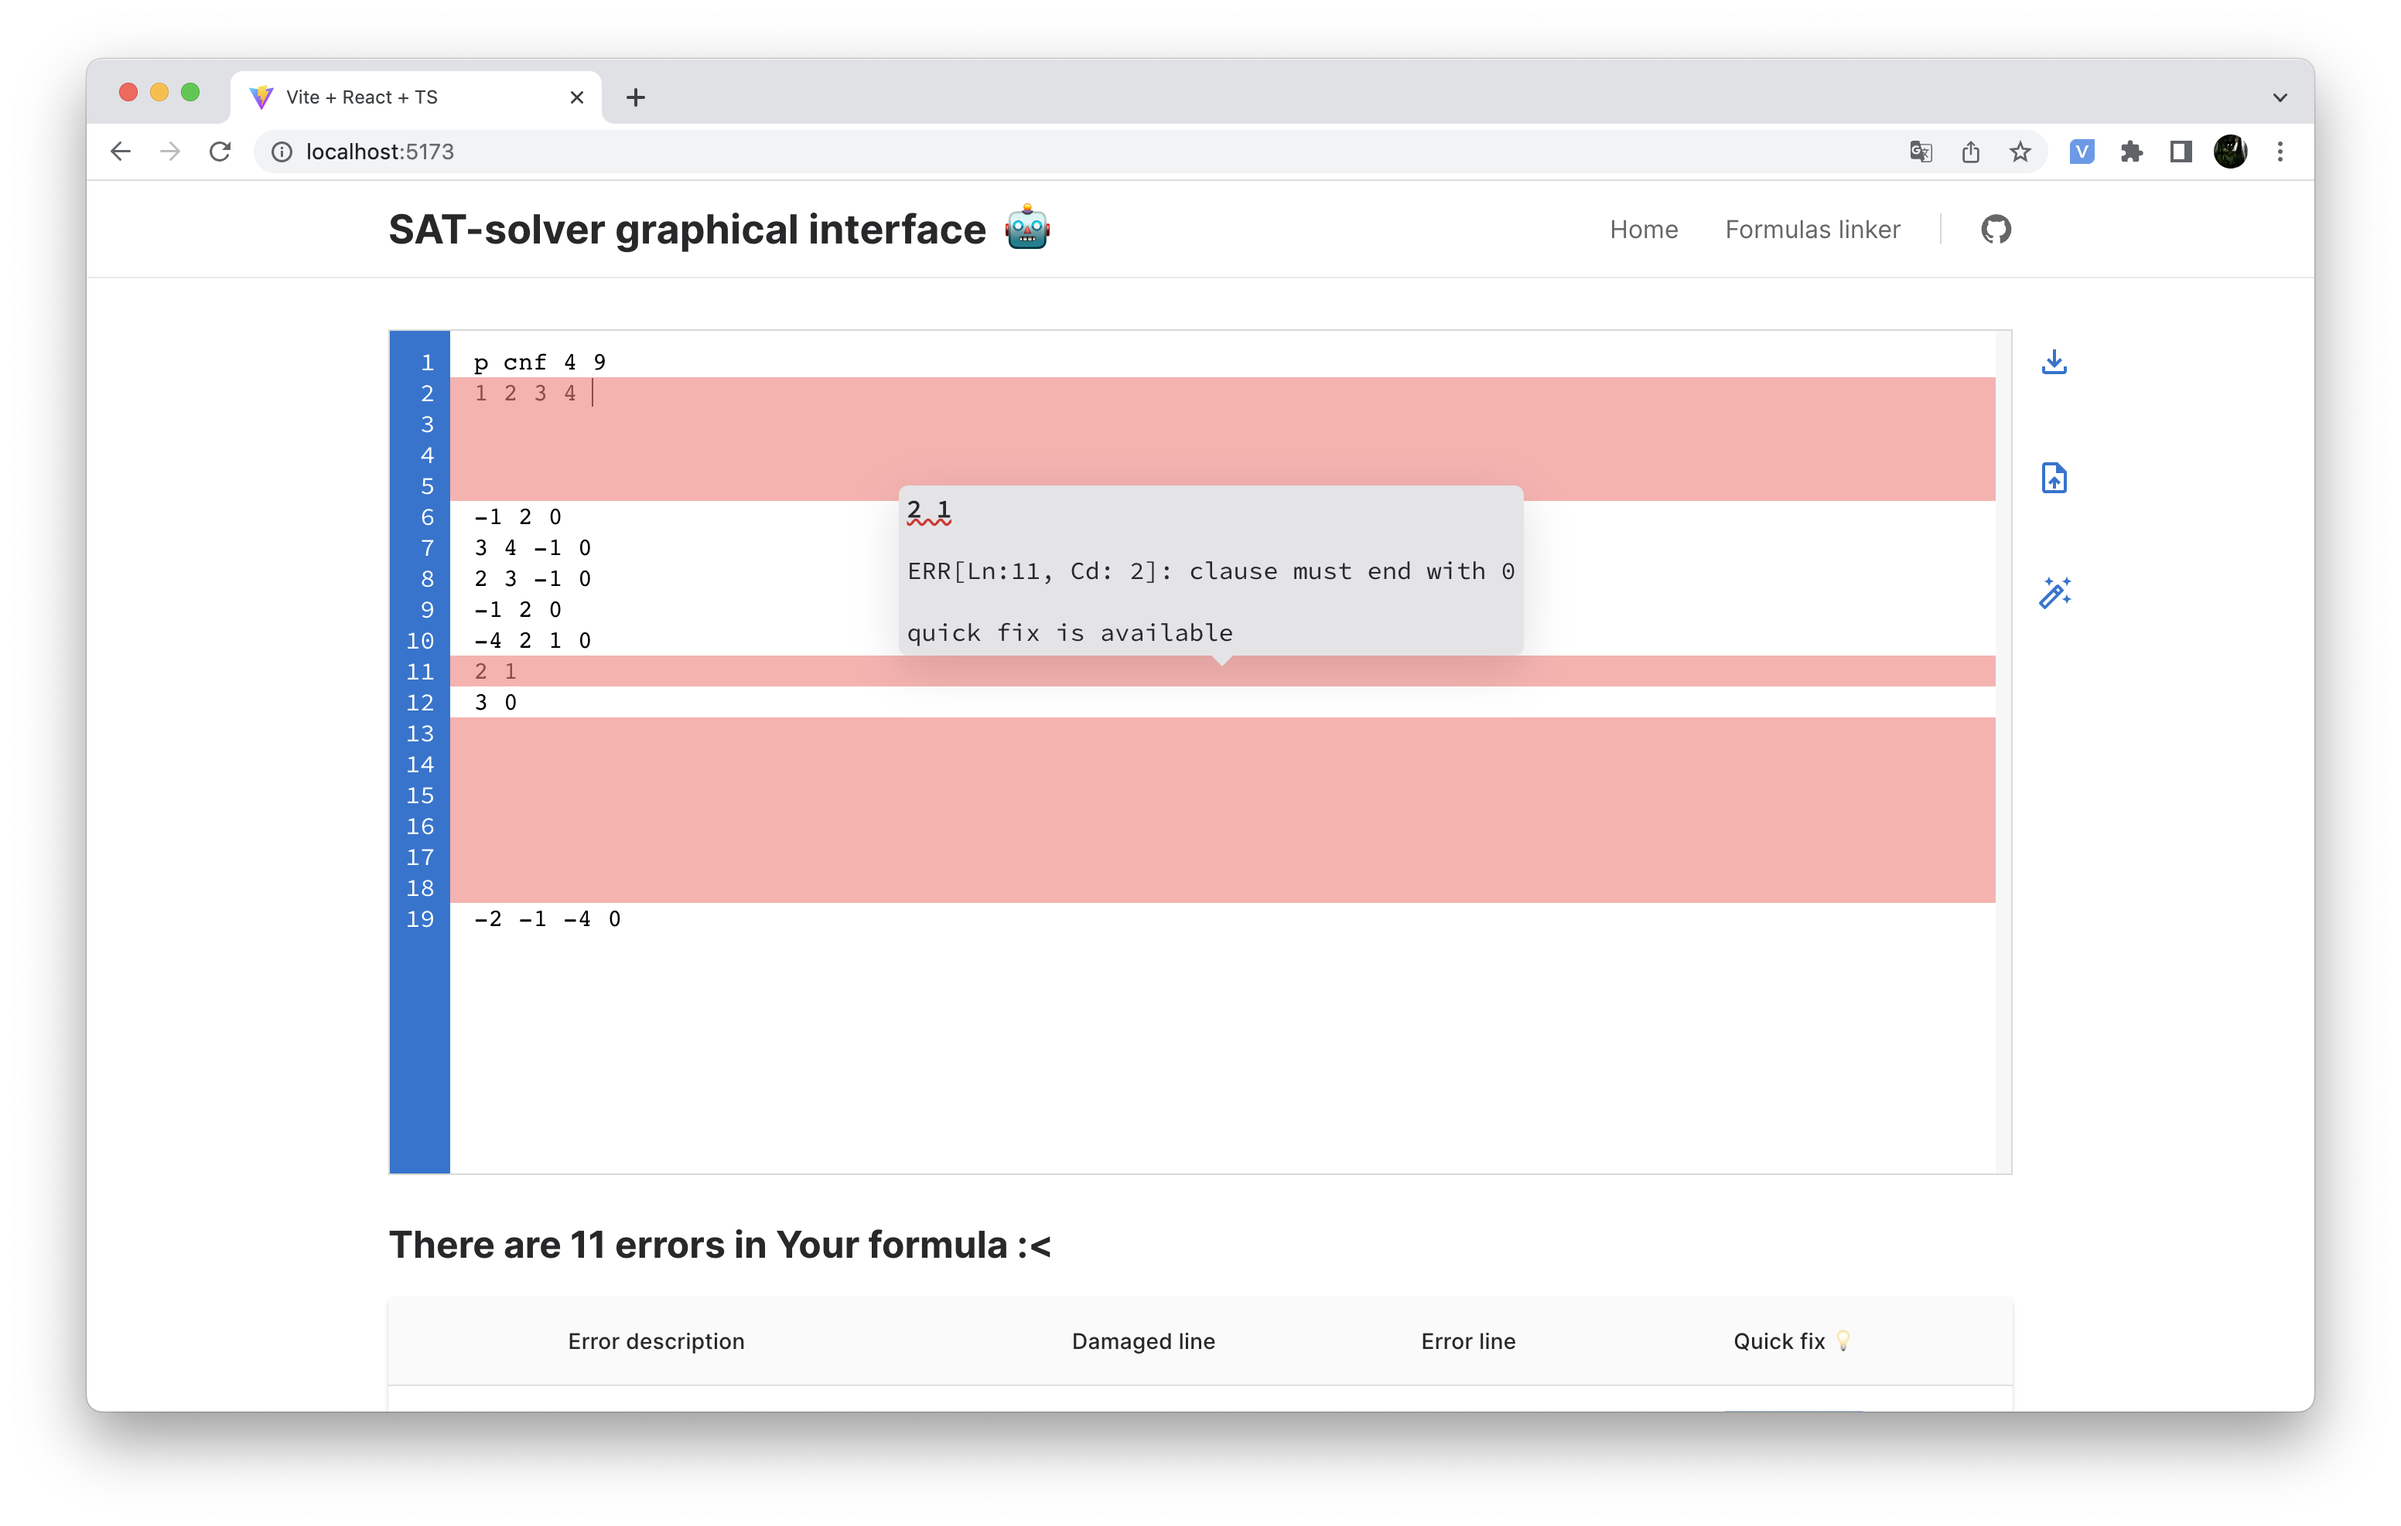
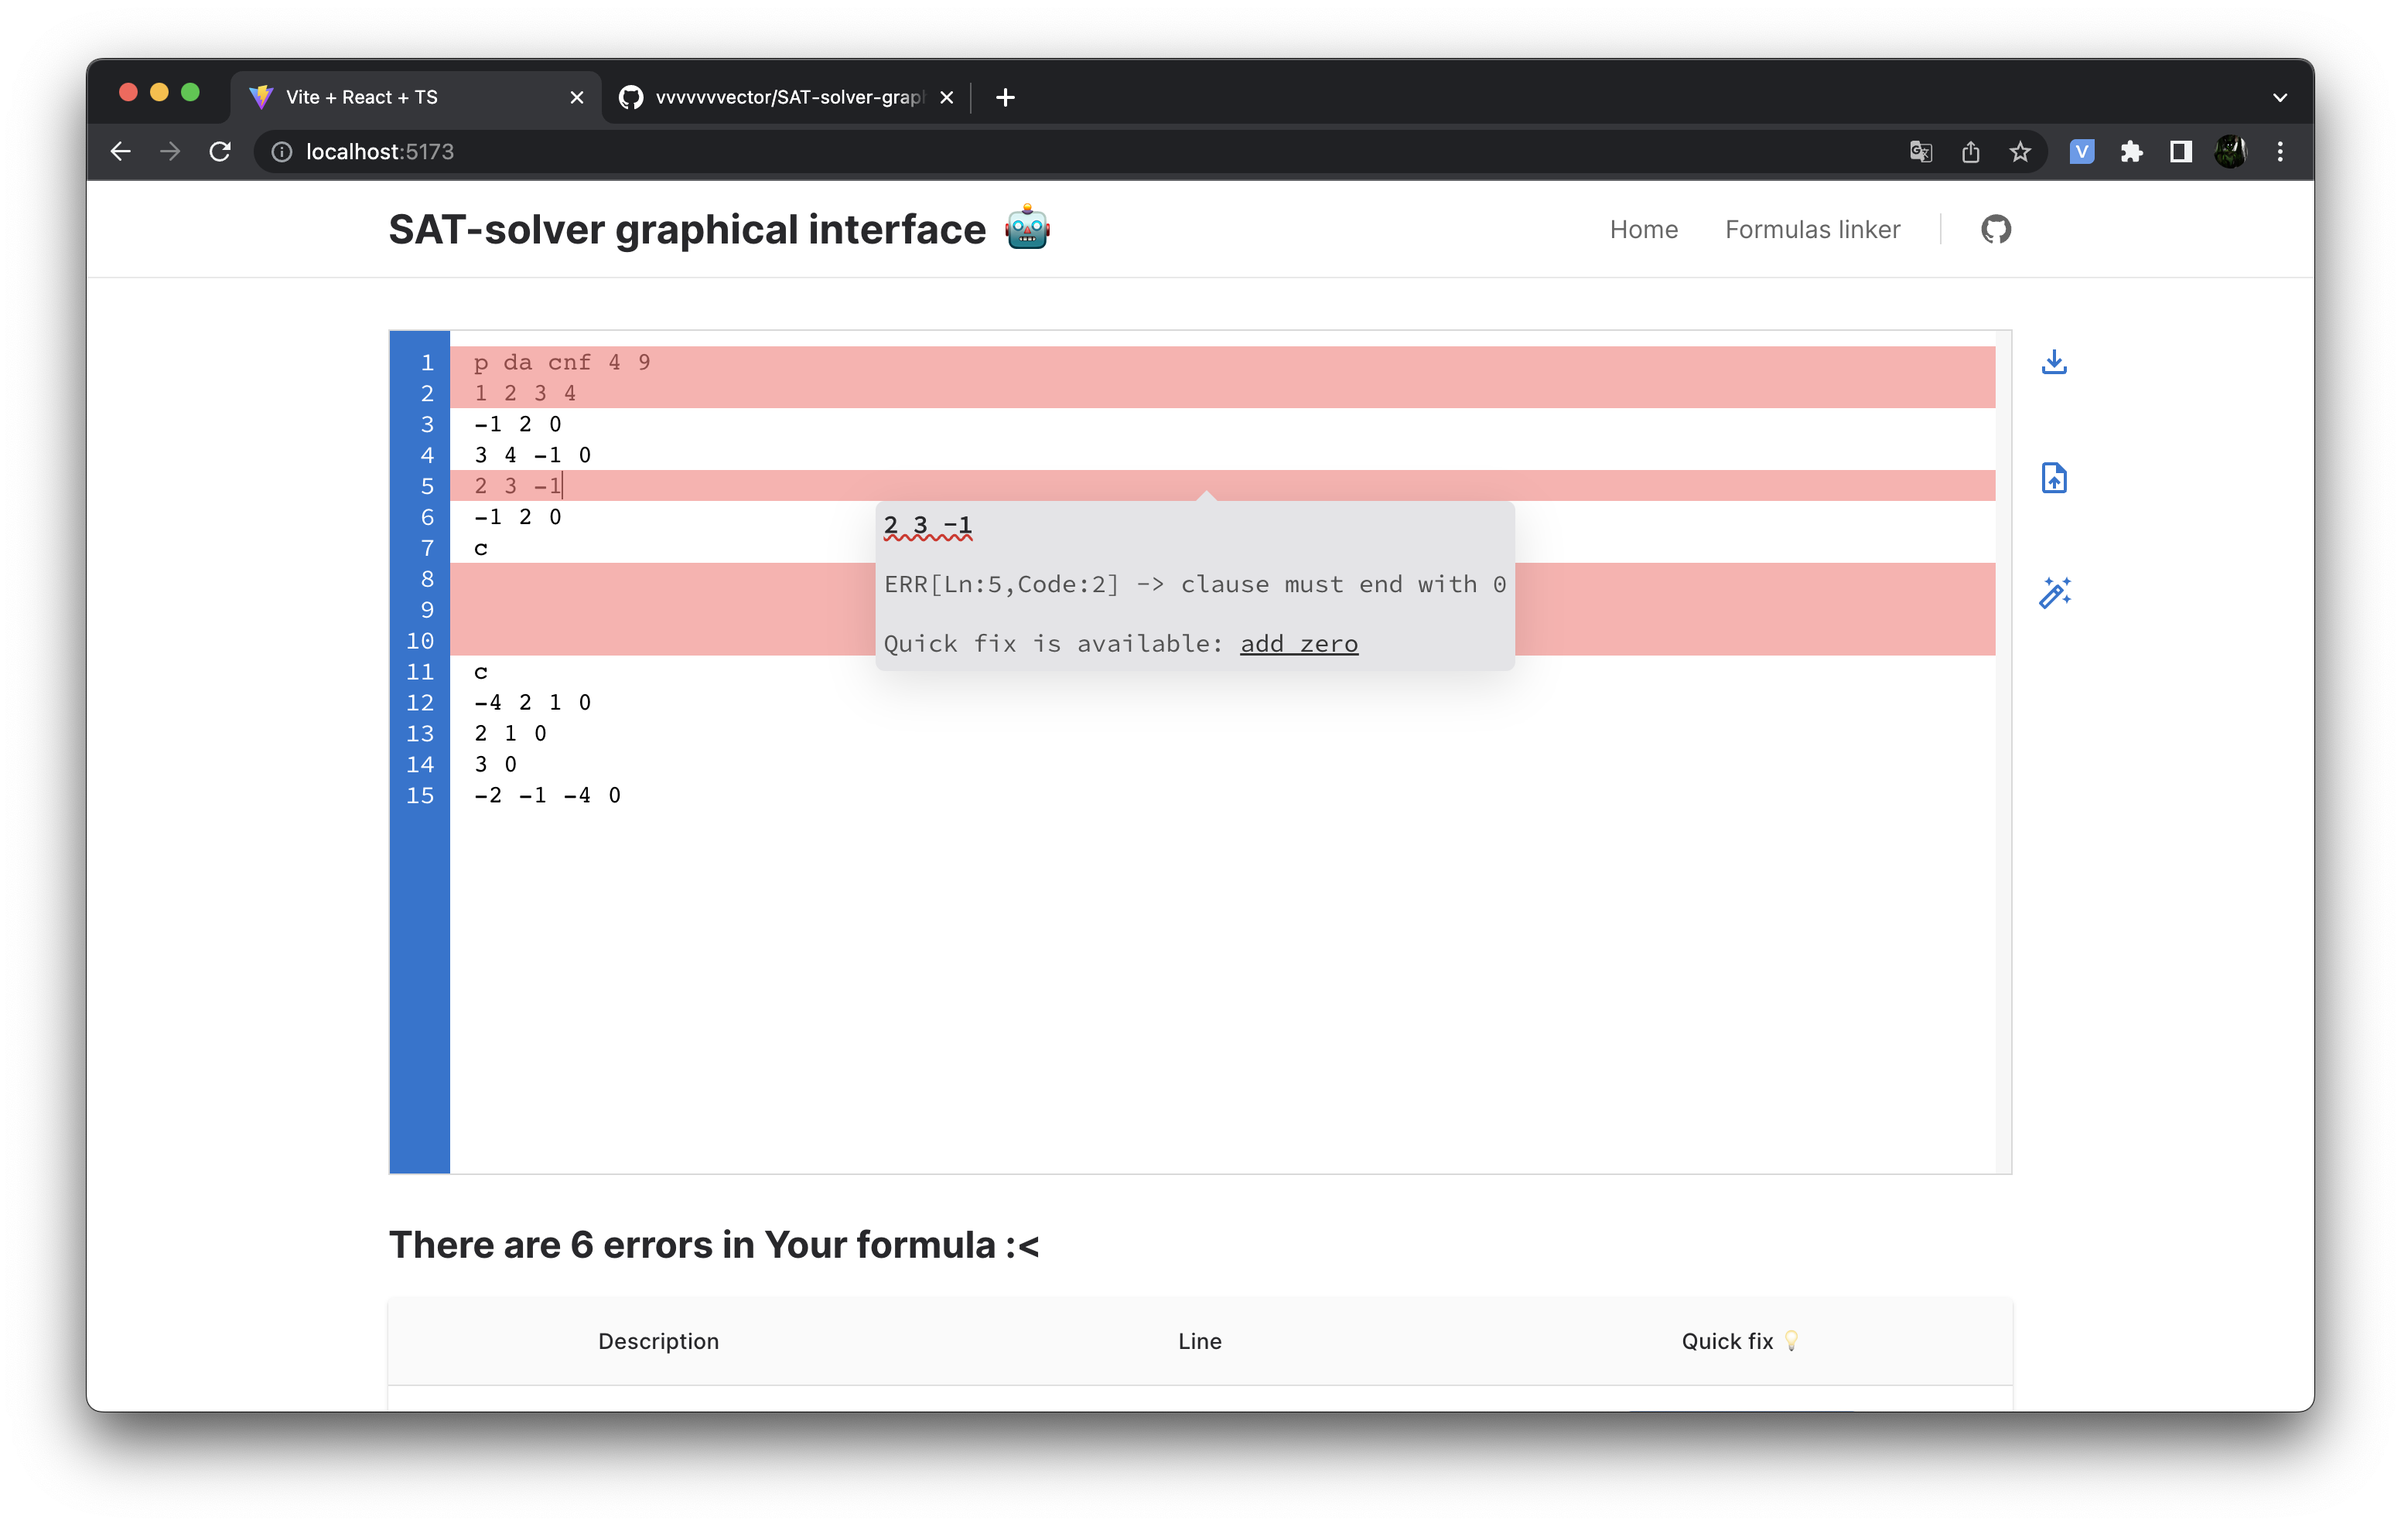
inline fixes are are working now

diff --git a/src/components/Editor/Errors/Error/ErrorInfo/ErrorInfo.tsx b/src/components/Editor/Errors/Error/ErrorInfo/ErrorInfo.tsx
@@ -1,8 +1,72 @@
 import { FC } from 'react';
+import { toast } from 'react-hot-toast';
+
+import { useAppDispatch } from '../../../../../redux/hooks/hooks';
+import {
+  addZero,
+  deleteLine,
+  editLine,
+} from '../../../../../redux/slices/editor';
 
 import { IError } from '../../../../../shared/types';
 
 import styles from './ErrorInfo.module.scss';
+
+const QuickFixByCode = (error: IError) => {
+  const dispatch = useAppDispatch();
+
+  const onDelete = () => {
+    dispatch(deleteLine(error.line));
+  };
+
+  const onAddZero = () => {
+    dispatch(addZero(error.line));
+  };
+
+  const onEdit = () => {
+    const editedLine = window.prompt('Edit a clause:', error.damaged);
+
+    if (editedLine) {
+      if (editedLine === error.damaged) {
+        toast.error('You have to write something instead of the same line!');
+        return;
+      }
+
+      dispatch(editLine({ line: error.line, editedLine }));
+
+      toast.success('Clause was edited successfully!');
+    } else {
+      toast.error('You have to write something instead of empty line!');
+    }
+  };
+
+  switch (error.errorCode) {
+    case 0:
+      return <button onClick={onDelete}>delete empty</button>;
+    case 1:
+      return <button onClick={onEdit}>edit</button>;
+    case 2:
+      return <button onClick={onAddZero}>add zero</button>;
+    case 3:
+      return (
+        <>
+          <button onClick={onEdit}>edit</button>
+          <button
+            style={{
+              marginLeft: '12px',
+            }}
+            onClick={onDelete}
+          >
+            delete
+          </button>
+        </>
+      );
+    case 4:
+      return <button onClick={onDelete}>delete</button>;
+    default:
+      return <span>No quick fix available</span>;
+  }
+};
 
 interface ErrorInfoProps {
   error: IError;
@@ -18,7 +82,10 @@ const ErrorInfo: FC<ErrorInfoProps> = ({ error }) => {
     >
       <span>{error.damaged === '' ? 'Line is empty here' : error.damaged}</span>
       <span>{`ERR[Ln:${error.line},Code:${error.errorCode}] -> ${error.description}`}</span>
-      <span>{`quick fix is available: edit | delete | add zero`}</span>
+      <span className={styles.quickFix}>
+        {`Quick ${error.errorCode === 3 ? 'fixes are' : 'fix is'} available:`}{' '}
+        {QuickFixByCode(error)}
+      </span>
       <span
         style={
           error.line < 7

diff --git a/src/components/Editor/Errors/Error/ErrorInfo/ErrorInfo.module.scss b/src/components/Editor/Errors/Error/ErrorInfo/ErrorInfo.module.scss
@@ -8,16 +8,33 @@
   padding: 5px;
   z-index: 100;
   height: 100px;
-  // border: 1px solid hsl(0, 0%, 90%);
   background-color: #e4e4e7;
   position: absolute;
   left: 275px;
 
   span {
     height: 23px;
+    color: hsl(0, 0%, 32%);
+  }
+
+  .quickFix {
+    button {
+      cursor: pointer;
+      font-family: var(--font-source-code-pro);
+      font-size: 16px;
+      color: hsl(0, 0%, 32%);
+      background-color: transparent;
+      border: none;
+
+      &:hover {
+        text-decoration: underline;
+        color: hsl(0, 0%, 20%);
+      }
+    }
   }
 
   span:first-child {
+    color: var(--color-black);
     max-width: 500px;
     white-space: nowrap;
     overflow-x: hidden;

diff --git a/src/components/Editor/Errors/Error/Error.tsx b/src/components/Editor/Errors/Error/Error.tsx
@@ -21,7 +21,7 @@ const Error: FC<ErrorProps> = ({ error, index }) => {
       onMouseEnter={() => {
         interval.current = setTimeout(() => {
           setIsOpened(true);
-        }, 500);
+        }, 350);
       }}
       onMouseLeave={() => {
         clearTimeout(interval.current);
